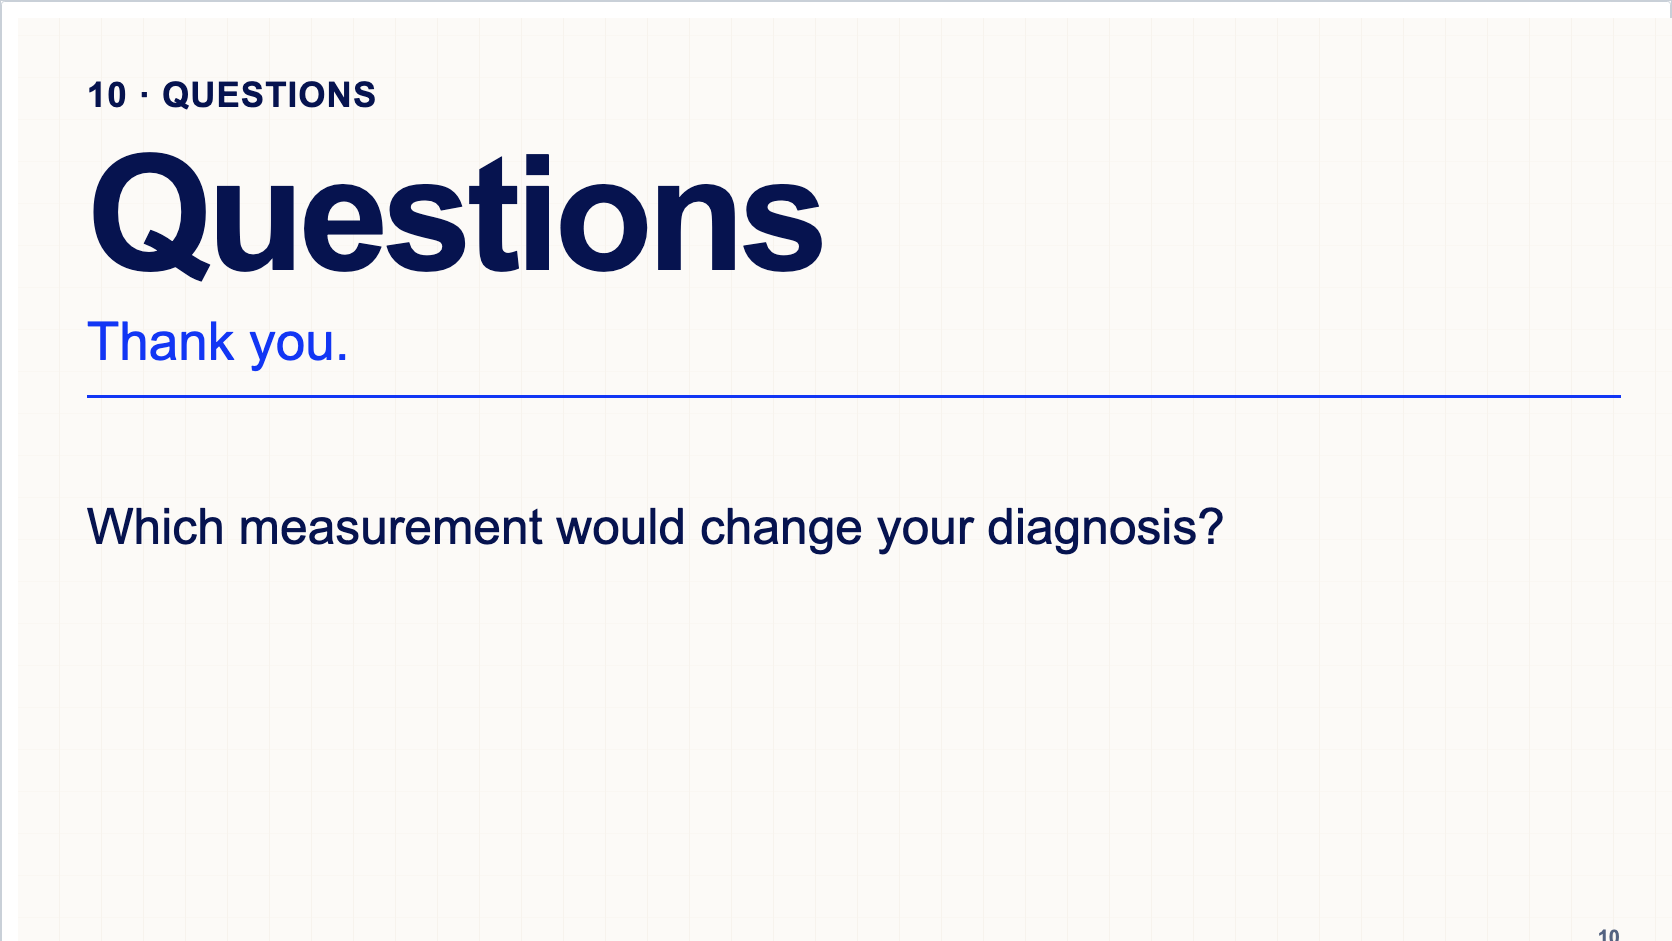
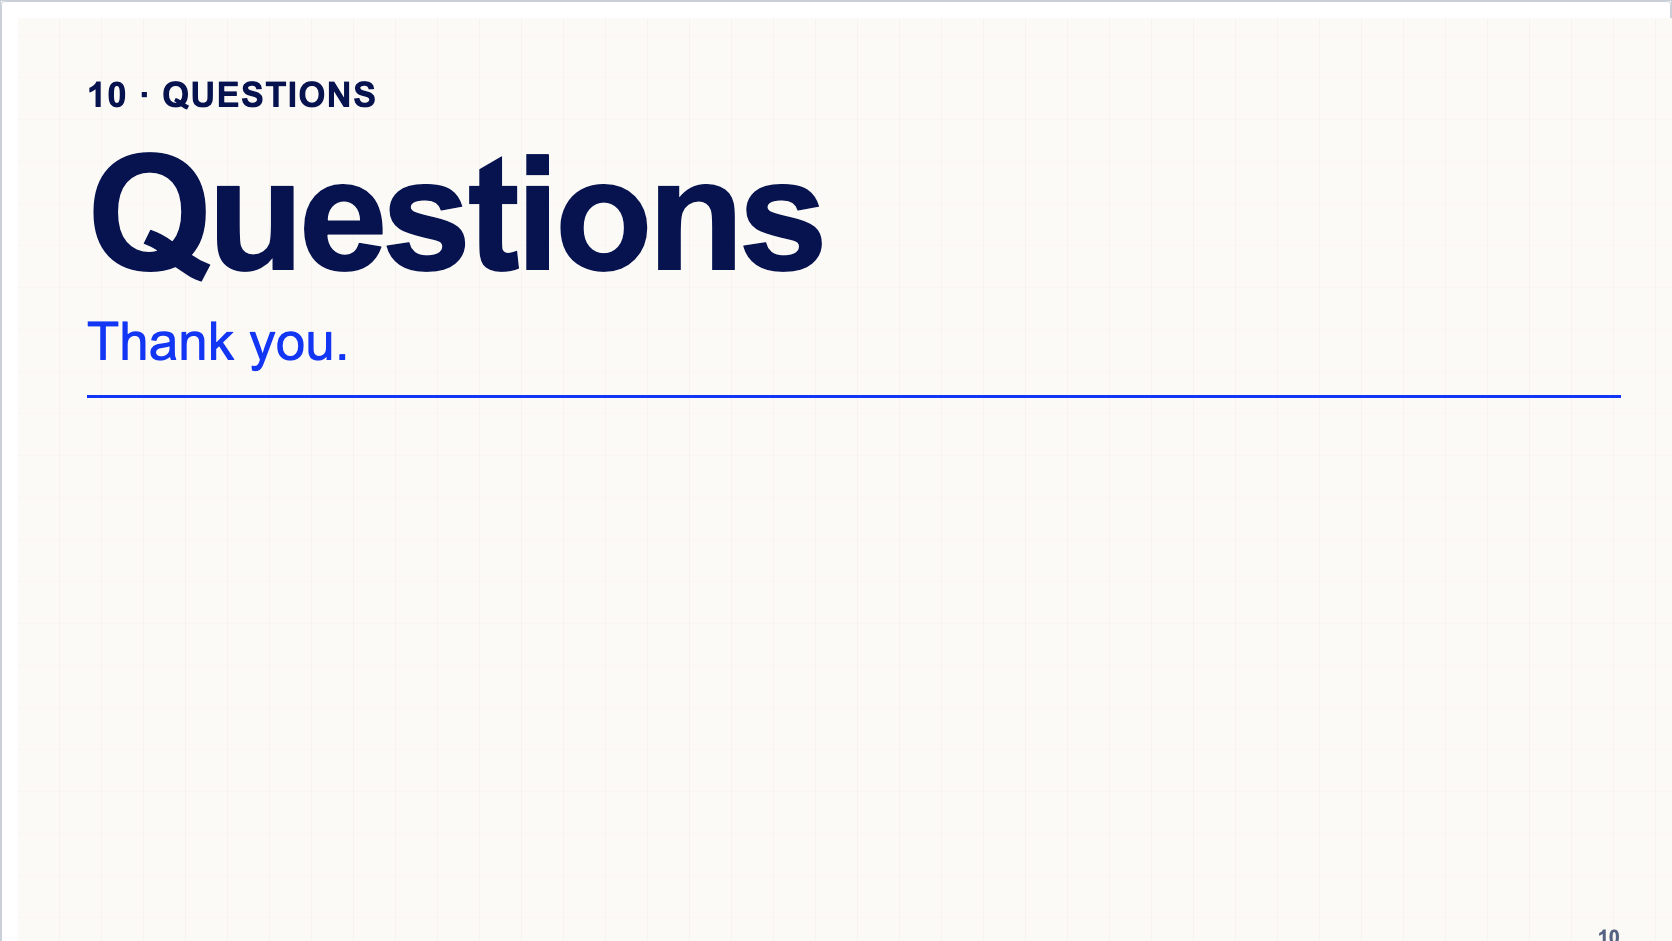
update lesson 49

Changed region(s): [[0.0311, 0.5239, 0.7464, 0.5855]]

diff --git a/lessons/0049-performance-bottleneck.html b/lessons/0049-performance-bottleneck.html
@@ -18,5 +18,5 @@
 <article class="web-slide" data-number="07" data-slide-src="../slides/lesson-49/origin_image/slide_07.png"><figure class="msm-page"><div class="msm-slide"><p class="kicker">07 · One controlled change</p><h2>Replace only the image asset</h2><div class="perf-result"><div class="panel orange"><h3>Before · simulated</h3><strong>1.6 MB</strong><small>Heavy LCP image transfer</small></div><div class="panel green"><h3>Candidate · simulated</h3><strong>260 kB</strong><small>Visual equivalent with enough resolution</small></div></div><p class="perf-note">Keep copy, position, display size, alt and cache settings. Publish the asset and page; inspect the <em>actual</em> resource in Network.</p><p class="takeaway">The local SDK may use Adaptive Image Servlet; do not assume Cloud WebP delivery.</p><span class="slide-number">07</span></div><figcaption>07 · Single change · <a href="../slides/lesson-49/origin_image/slide_07.png" download>Download PNG</a></figcaption></figure><div class="slide-actions no-print"><button type="button" data-copy-slide>Copy slide as image</button><span data-copy-status aria-live="polite"></span></div><details class="presenter-note" lang="es"><summary>Notas para LLM · slide 07</summary><p>En Author cambiar sólo el asset del Core Image por una variante visualmente equivalente. Comprobar encuadre, nitidez y alt; publicar dependencias. Registrar la URL, formato, dimensiones y bytes que realmente recibió Publish. El servicio Web-Optimized Image Delivery existe en AEM Cloud, no en localhost; el SDK local puede usar Adaptive Image Servlet. Fuentes: <a href="https://experienceleague.adobe.com/en/docs/experience-manager-core-components/using/wcm-components/image">Adobe · Core Image</a> y <a href="https://experienceleague.adobe.com/en/docs/experience-manager-core-components/using/developing/web-optimized-image-delivery">Adobe · Web-Optimized Image Delivery</a>.</p></details></article>
 <article class="web-slide" data-number="08" data-slide-src="../slides/lesson-49/origin_image/slide_08.png"><figure class="msm-page"><div class="msm-slide"><p class="kicker">08 · Remeasure <span class="perf-label">Simulated</span></p><h2>Compare the same scenario</h2><table class="perf-table"><thead><tr><th>Metric</th><th>Before</th><th>After</th><th>Lab budget</th></tr></thead><tbody><tr><td>Median LCP, 5 runs</td><td>3.6 s</td><td class="highlight">2.7 s</td><td>≤ 3.0 s</td></tr><tr><td>LCP image transfer</td><td>1.6 MB</td><td class="highlight">260 kB</td><td>≤ 300 kB</td></tr><tr><td>HTML TTFB</td><td>0.18 s</td><td>0.19 s</td><td>Record, no target</td></tr><tr><td>LCP element + quality</td><td>Hero image</td><td>Same; clear, alt intact</td><td>Preserved</td></tr></tbody></table><p class="perf-note">Save all five values and their spread. These numbers illustrate a decision; they are not measured results.</p><p class="takeaway">Accept only if your own comparable runs and quality checks support it.</p><span class="slide-number">08</span></div><figcaption>08 · Example comparison · <a href="../slides/lesson-49/origin_image/slide_08.png" download>Download PNG</a></figcaption></figure><div class="slide-actions no-print"><button type="button" data-copy-slide>Copy slide as image</button><span data-copy-status aria-live="polite"></span></div><details class="presenter-note" lang="es"><summary>Notas para LLM · slide 08</summary><p>Estos son datos simulados. Bajo el protocolo del ejemplo, se cumplen los límites y TTFB queda parecido, lo que apoya la hipótesis de transferencia de imagen. No presentar la diferencia como resultado de WKND. Una tabla real necesita los cinco valores individuales, condiciones, versión de página y una nota sobre variación. Si el elemento LCP cambia, registrarlo y revisar la nueva etapa dominante.</p></details></article>
 <article class="web-slide" data-number="09" data-slide-src="../slides/lesson-49/origin_image/slide_09.png"><figure class="msm-page"><div class="msm-slide summary"><p class="kicker">09 · Decision</p><h2>Evidence before declaring success</h2><ul class="summary-list"><li>Match URL, viewport, network, CPU and cache state.</li><li>Keep five LCP values and compare their median and spread.</li><li>Confirm the same LCP element and the transferred image bytes.</li><li>Check sharpness, crop, alt and published content.</li><li>If bytes fall but LCP does not, inspect the next slow stage.</li></ul><span class="slide-number">09</span></div><figcaption>09 · Acceptance checklist · <a href="../slides/lesson-49/origin_image/slide_09.png" download>Download PNG</a></figcaption></figure><div class="slide-actions no-print"><button type="button" data-copy-slide>Copy slide as image</button><span data-copy-status aria-live="polite"></span></div><details class="presenter-note" lang="es"><summary>Notas para LLM · slide 09</summary><p>El cambio sólo se acepta si cumple el presupuesto acordado sin dañar la imagen ni el contenido. Si bajan bytes pero no LCP, la transferencia mejoró, pero el cuello de botella de LCP persiste. Si el cambio observado cabe dentro de la dispersión de las muestras, repetir o medir en un entorno más controlado. No extrapolar el SDK local a CDN, Dispatcher o usuarios reales.</p></details></article>
-<article class="web-slide" data-number="10" data-slide-src="../slides/lesson-49/origin_image/slide_10.png"><figure class="msm-page"><div class="msm-slide questions"><p class="kicker">10 · Questions</p><h2>Questions</h2><p class="sub">Thank you.</p><div class="closing-rule"></div><p style="margin-top:2em;font-size:1.45em">Which measurement would change your diagnosis?</p><span class="slide-number">10</span></div><figcaption>10 · Questions · <a href="../slides/lesson-49/origin_image/slide_10.png" download>Download PNG</a></figcaption></figure><div class="slide-actions no-print"><button type="button" data-copy-slide>Copy slide as image</button><span data-copy-status aria-live="polite"></span></div><details class="presenter-note" lang="es"><summary>Notas para LLM · slide 10</summary><p>Preguntar: ¿un TTFB alto demuestra una consulta lenta? No. ¿Menos bytes garantiza menor LCP? No. ¿Qué condición invalidaría esta corrección? Por ejemplo, que la imagen no fuese el elemento LCP, que la diferencia quedara dentro del ruido o que la variante perdiera calidad. Cerrar con la secuencia línea base → hipótesis → un cambio → nueva medición.</p></details></article>
+<article class="web-slide" data-number="10" data-slide-src="../slides/lesson-49/origin_image/slide_10.png"><figure class="msm-page"><div class="msm-slide questions"><p class="kicker">10 · Questions</p><h2>Questions</h2><p class="sub">Thank you.</p><div class="closing-rule"></div><span class="slide-number">10</span></div><figcaption>10 · Questions · <a href="../slides/lesson-49/origin_image/slide_10.png" download>Download PNG</a></figcaption></figure><div class="slide-actions no-print"><button type="button" data-copy-slide>Copy slide as image</button><span data-copy-status aria-live="polite"></span></div><details class="presenter-note" lang="es"><summary>Notas para LLM · slide 10</summary><p>Abrir preguntas y cerrar con la secuencia línea base → hipótesis → un cambio → nueva medición.</p></details></article>
 </div></main><footer>Class 49 · <a href="../reference/session-49-study-guide.html" lang="es">Guía en español</a> · <a href="index.html">All lessons</a></footer><script src="../assets/copy-slide.js"></script><script>const captureSlide = new URLSearchParams(location.search).get('slide'); if (captureSlide) { const article = document.querySelector(`[data-number="${captureSlide}"]`); if (article) { document.body.classList.add('capture'); article.classList.add('capture-target'); } }</script></body></html>
